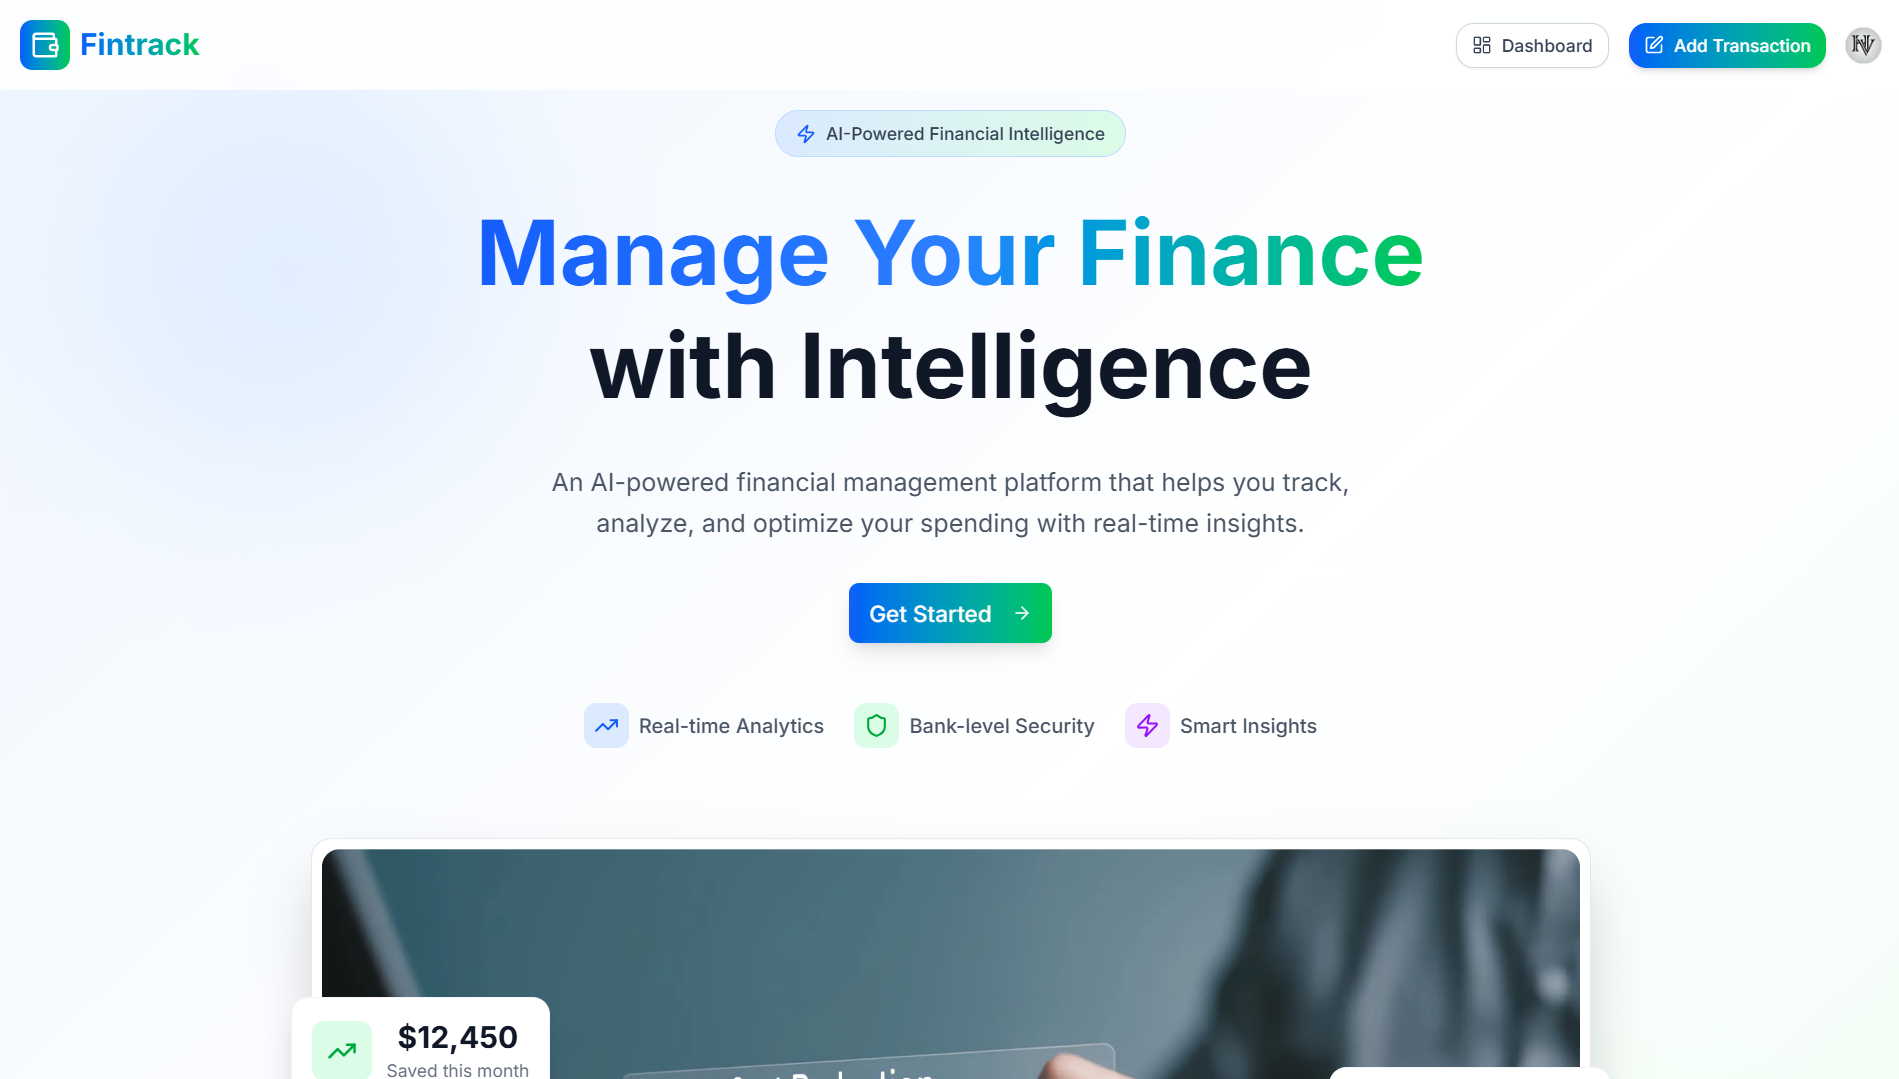
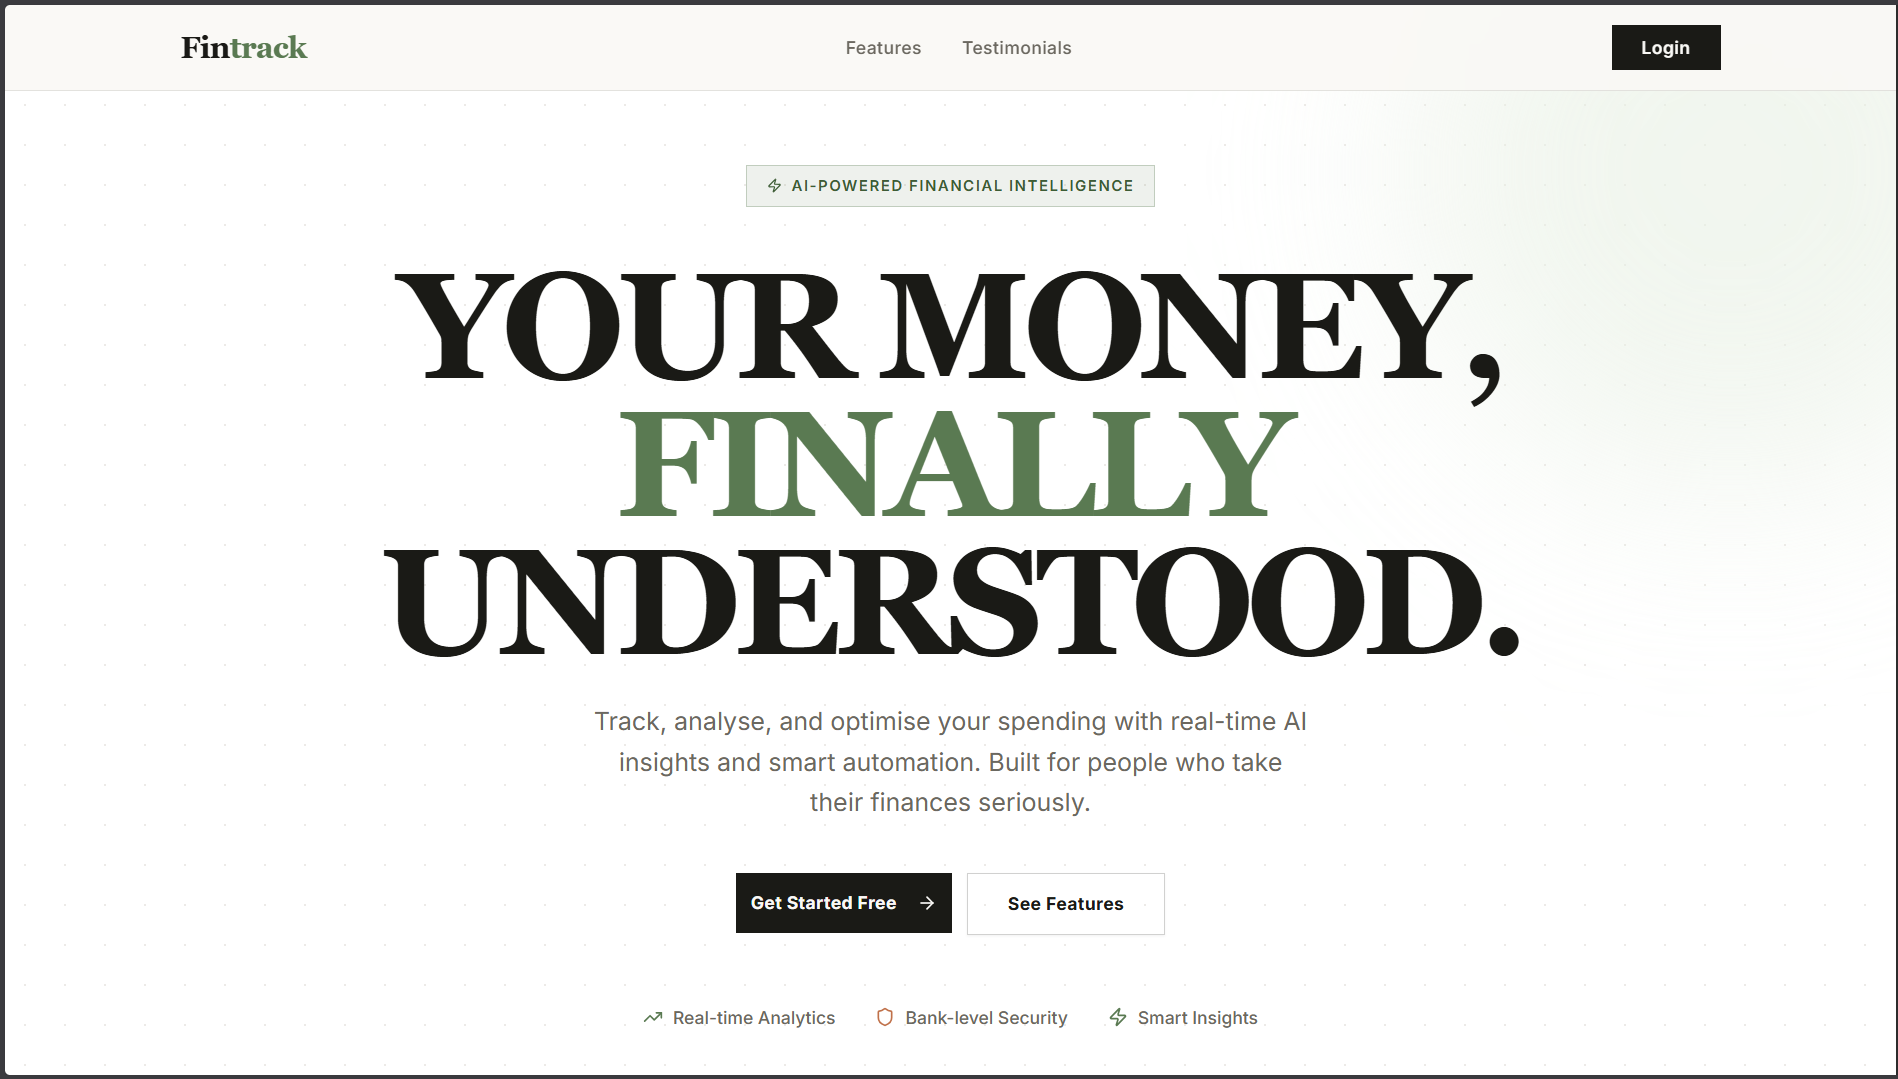
project and resume update

Changed region(s): [[0.0, 0.0, 1.0, 1.0], [0.0622, 0.0918, 0.8082, 0.6117]]

diff --git a/app/_components/contribution.tsx b/app/_components/contribution.tsx
@@ -80,7 +80,7 @@ export default function OpenSourceContribution() {
           <AccordionPanel>
             <div className="space-y-2 text-sm text-muted-foreground">
               <p className="group flex items-start gap-2">
-                <GitMerge
+                <GitMerge 
                   size={20}
                   className="
       mt-[2px]
@@ -90,7 +90,7 @@ export default function OpenSourceContribution() {
     "
                 />
 
-                <a
+                <a  
                   href="https://github.com/ig-imanish/mx-icons/pull/38"
                   target="_blank"
                   rel="noopener noreferrer"

diff --git a/app/Projects/projects.ts b/app/Projects/projects.ts
@@ -10,7 +10,7 @@ export const projects = [
     emoji: "💸",
     title: "FinTrack (AI Personal Finance App)",
     link: "https://github.com/himanshuvkm/FinTrack",
-    demo: "https://fintrack-nine-wine.vercel.app",
+    demo: "https://finnntrack.vercel.app",
     image: fintrackimg,
     category: "Full Stack | Personal",
     description:
